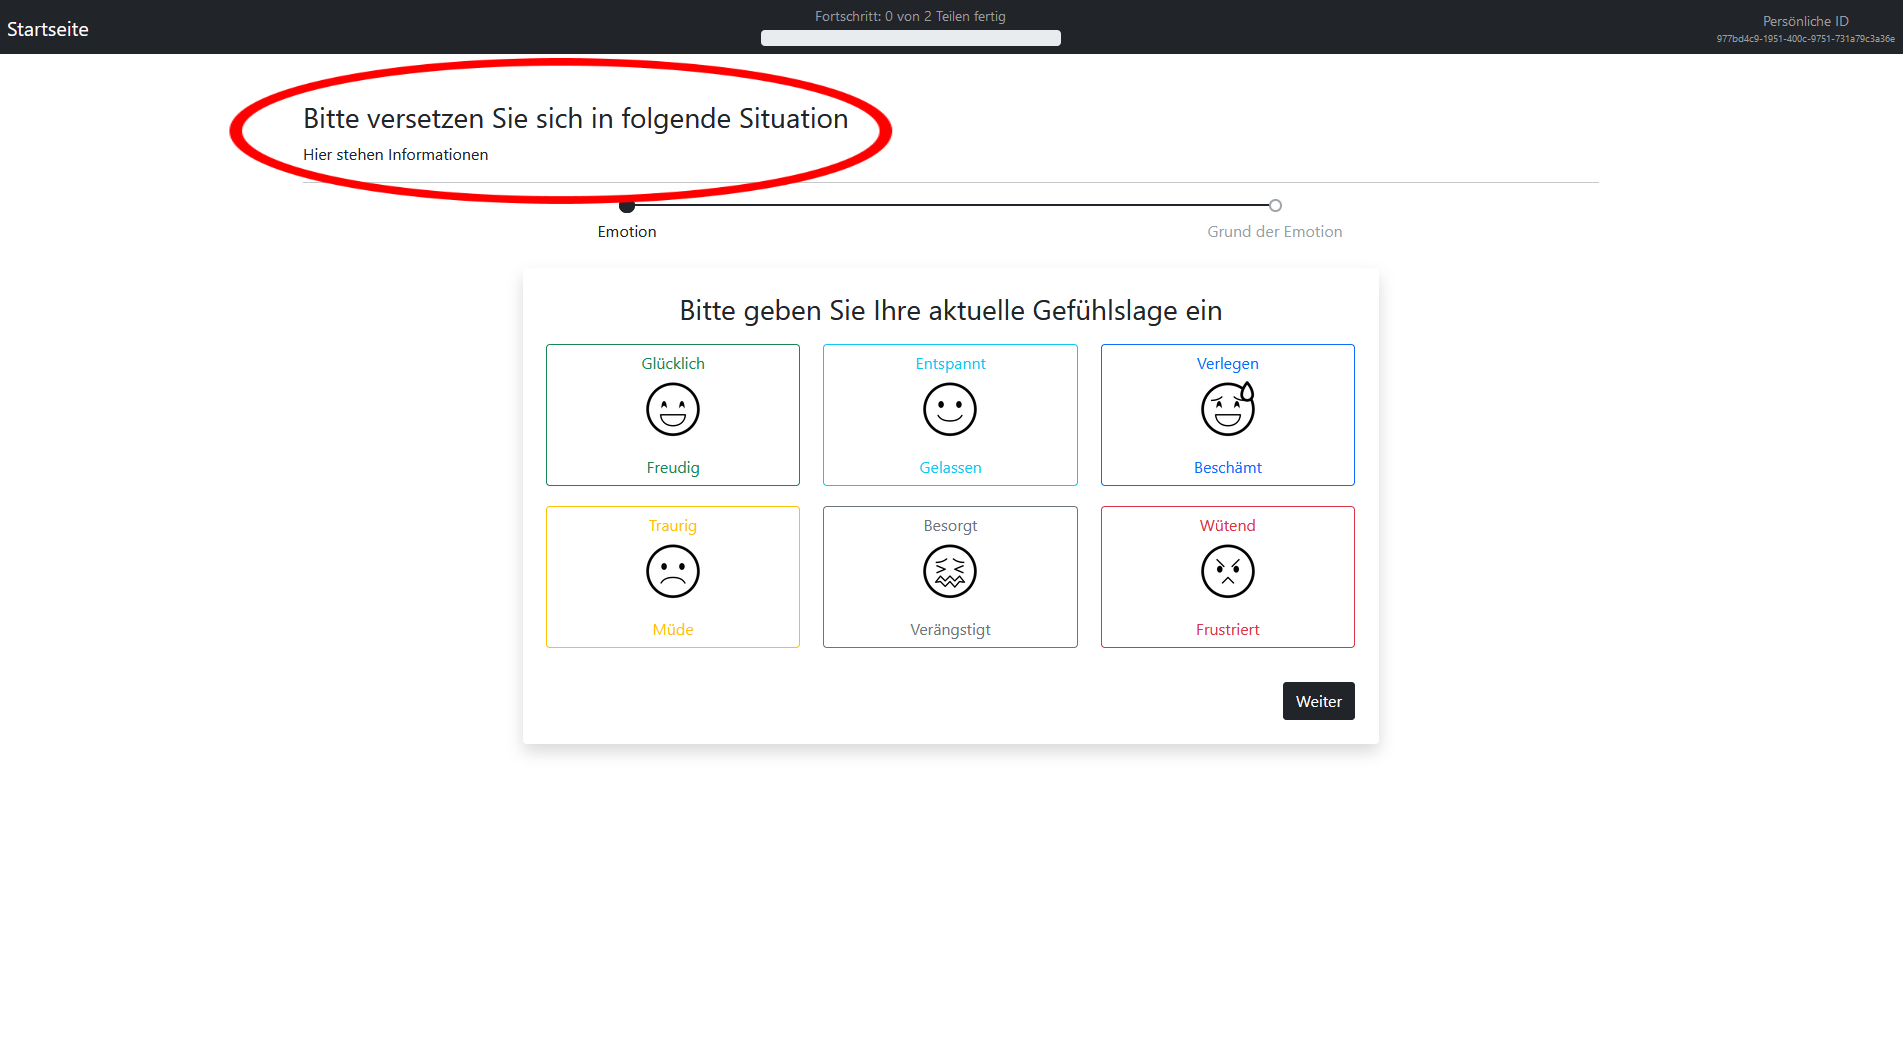
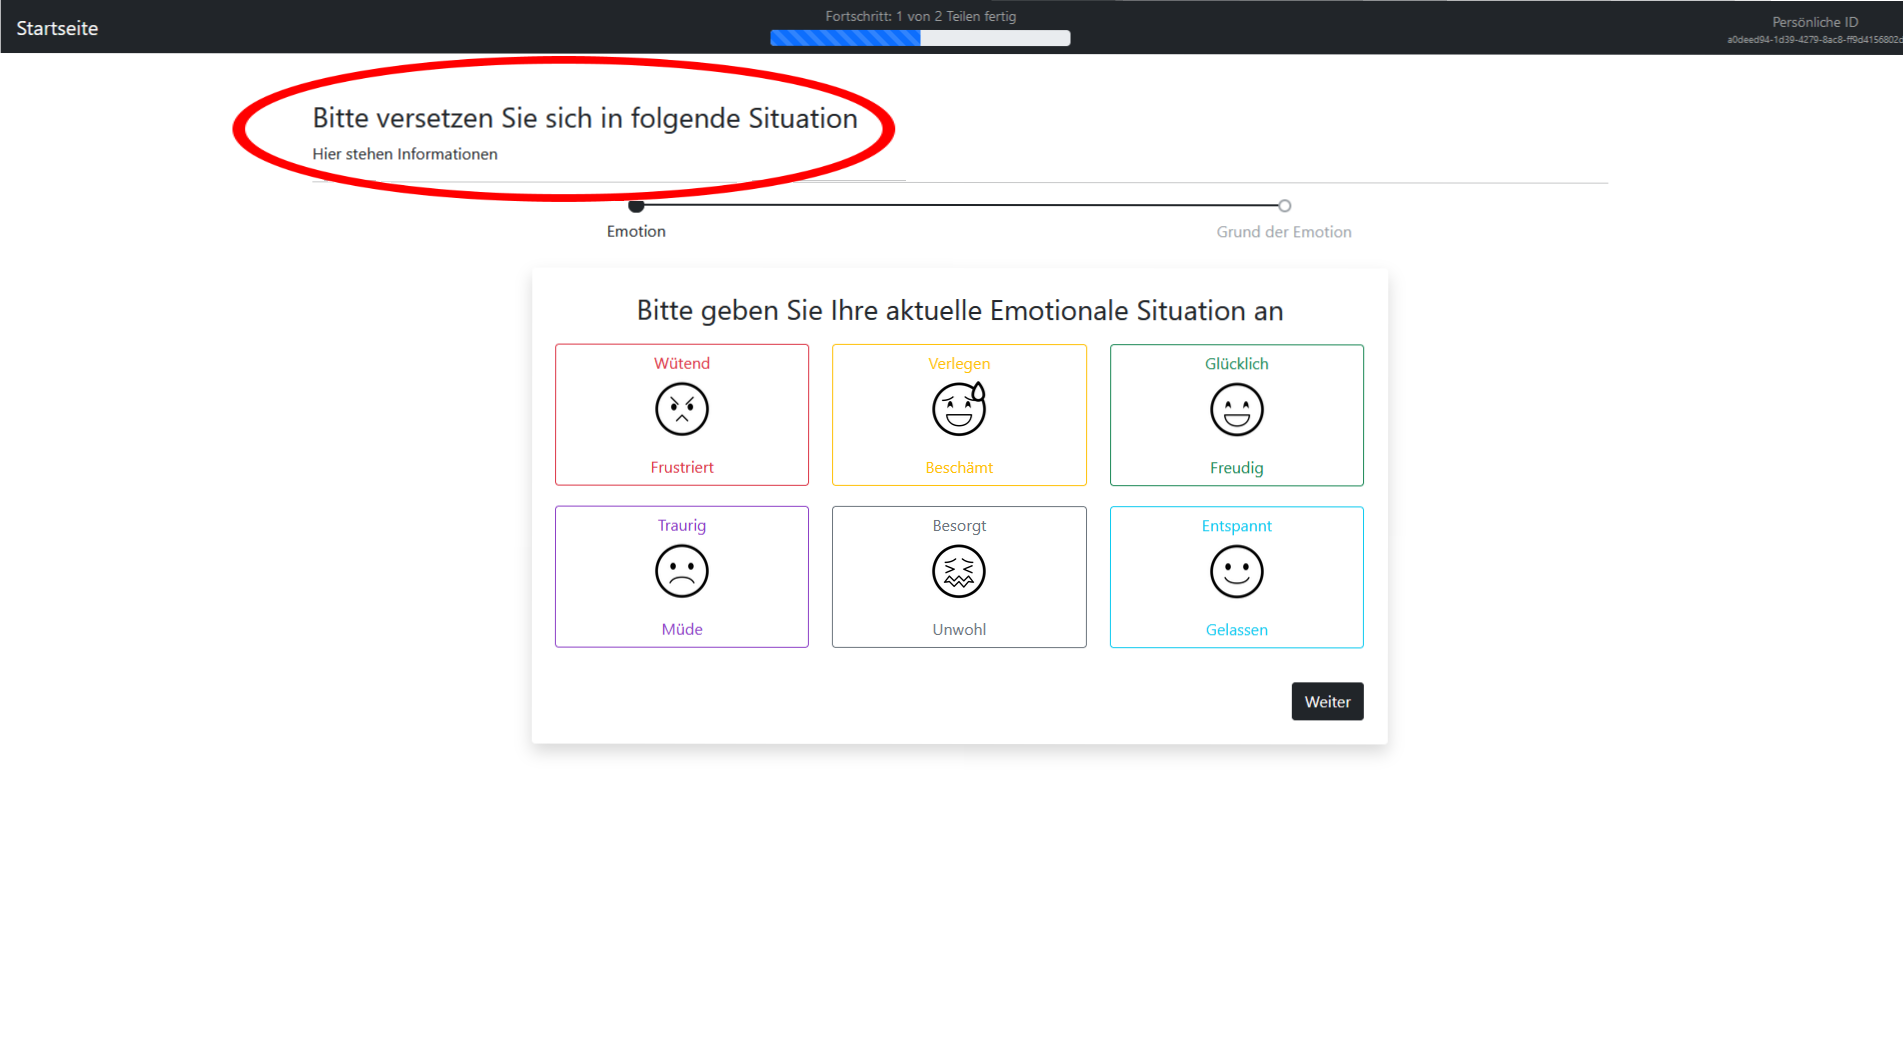
update guide to follow the new process

diff --git a/templates/guide.html b/templates/guide.html
@@ -49,17 +49,17 @@
                     <div class="carousel-caption d-none d-md-block">
                         <div class="bg-secondary rounded p-2">
                             <p class="no-pad-no-marg">Danach wird Ihnen eine Reaktion angezeigt.</p>
-                            <p class="no-pad-no-marg">Bitte bewerten Sie diese Reaktion</p>
+                            <p class="no-pad-no-marg">Bitte bewerten Sie diese Reaktion.</p>
                         </div>
                     </div>
                 </div>
                 <div class="carousel-item">
-                    <img src="{{ url_for('static', path='/guide_repeat.png') }}" class="d-block w-100"
+                    <img src="{{ url_for('static', path='/guide_thanks.png') }}" class="d-block w-100"
                          alt="guide_repeat">
                     <div class="carousel-caption d-none d-md-block">
                         <div class="bg-secondary rounded p-2">
-                            <p class="no-pad-no-marg">Der Prozess fängt wieder von vorne an und Sie bekommen eine neue Situationsbeschreibung.</p>
-                            <p class="no-pad-no-marg">Am oberen Bildschirmrand sehen Ihren Fortschritt.</p>
+                            <p class="no-pad-no-marg">Das wars auch schon.</p>
+                            <p class="no-pad-no-marg">Jetzt können Sie an der Gutschein Verlosung teilnehmen.</p>
                         </div>
                     </div>
                 </div>

diff --git a/templates/root.html b/templates/root.html
@@ -3,12 +3,9 @@
 {% block content %}
 
 <div class="container">
-    <h1> Wilkommen! </h1>
-    <p> Vielen Dank für Ihre Teilnahme an dieses Experiment... Wilkommensworte halt </p>
-    <p> Hier geht es um xxxxxxx </p>
-    <br>
-    <h3> Ablauf </h3>
-    <p> Ja so so und so vllt auch noch test test 123 </p>
+    <h1> Masterarbeit von Daniel Jäkel </h1>
+    <p> Herzlich Wilkommen zu dem Experiment für meine Masterarbeit und vielen herzlichen Dank für Ihre Teilnahme!</p>
+    <hr>
     <div class="d-flex justify-content-center" style="margin-top: 50px">
         <a class="btn btn-primary btn-lg" href="{{ continue_button_url }}" type="button">
             Experiment Starten!

diff --git a/templates/use_case.html b/templates/use_case.html
@@ -30,7 +30,7 @@
                     <!-- Page 1 -->
                     <div class="multisteps-form__panel shadow p-4 rounded bg-white js-active" data-animation="scaleIn">
                         <h3 class="multisteps-form__title text-center">
-                            Bitte geben Sie Ihre aktuelle Gefühlslage an
+                            Bitte geben Sie Ihre aktuelle Emotionale Situation an
                         </h3>
                         <div class="multisteps-form__content">
                         {% for emotion_tripplet in emotions %}

diff --git a/app/main.py b/app/main.py
@@ -85,7 +85,7 @@ async def root(request: Request, user_id: Optional[str] = Cookie(None)):
 # show the user a guide on how to use the site
 @app.get('/guide')
 async def guide(request: Request, use_case_id: int, use_case_step: int, user_id: str = Cookie(None)):
-    estimate_time_needed = 30
+    estimate_time_needed = 999999
 
     # define params needed to build the link to the limesurvey user data collection
     params = {
